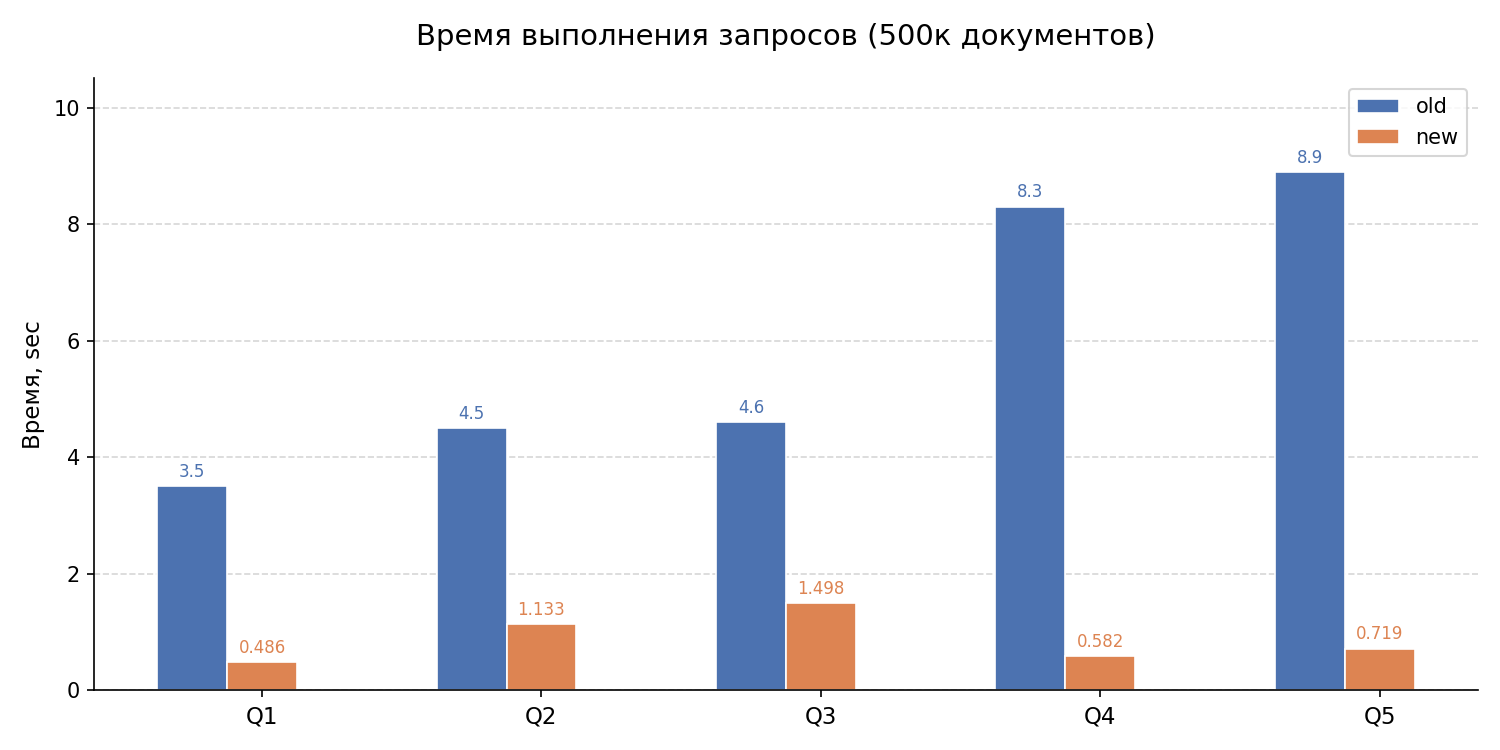
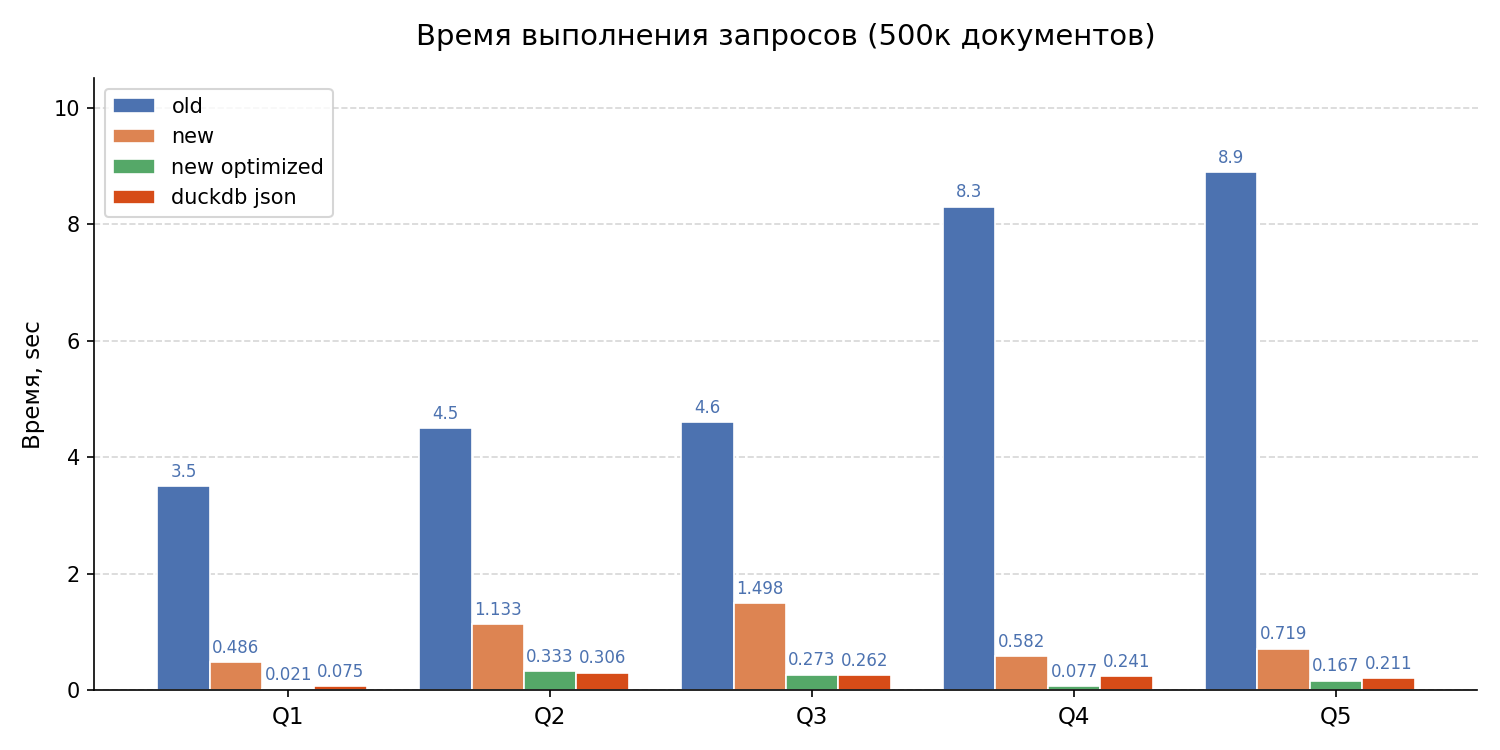
bench compare fix

diff --git a/bench_compare.py b/bench_compare.py
@@ -11,31 +11,37 @@ import numpy as np
 # ── Данные ───────────────────────────────────────────────────────────────────
 labels = ["Q1", "Q2", "Q3", "Q4", "Q5"]
 
-duckdb    = [3.5,  4.5, 4.6, 8.3, 8.9]
-mongodb   = [0.486,  1.133, 1.498,  0.582, 0.719]
-otterbrix = [0.021,  0.333, 0.273,  0.077, 0.167]
+otterbrix_old    = [3.5,  4.5, 4.6, 8.3, 8.9]
+otterbrix_new   = [0.486,  1.133, 1.498,  0.582, 0.719]
+otterbrix_new_optimized = [0.021,  0.333, 0.273,  0.077, 0.167]
+duckdb = [0.075,  0.306, 0.262,  0.241, 0.211]
 
 unit  = "sec"
 title = "Время выполнения запросов (500к документов)"
 # ─────────────────────────────────────────────────────────────────────────────
 
 x     = np.arange(len(labels))
-width = 0.25
+width = 0.2
 
 fig, ax = plt.subplots(figsize=(10, 5))
 
-bars_duckdb    = ax.bar(x - width, duckdb,    width, label="old",
+bars_otterbrix_old    = ax.bar(x - width * 2, otterbrix_old,    width, label="old",
                         color="#4C72B0", edgecolor="white", linewidth=0.8)
-bars_mongodb   = ax.bar(x,         mongodb,   width, label="new",
+bars_otterbrix_new   = ax.bar(x - width,         otterbrix_new,   width, label="new",
                         color="#DD8452", edgecolor="white", linewidth=0.8)
+bars_otterbrix_new_optimized   = ax.bar(x,         otterbrix_new_optimized,   width, label="new optimized",
+                              color="#55A868", edgecolor="white", linewidth=0.8)
+bars_duckdb   = ax.bar(x + width,         duckdb,   width, label="duckdb json",
+                              color="#D64C18", edgecolor="white", linewidth=0.8)
 
-all_vals = duckdb + mongodb + otterbrix
-y_max = max(all_vals)
+y_max = max(otterbrix_old)
 
 # Значения над столбцами
 for bars, vals, color in [
+    (bars_otterbrix_old,    otterbrix_old,    "#4C72B0"),
+    (bars_otterbrix_new,    otterbrix_new,    "#4C72B0"),
+    (bars_otterbrix_new_optimized,    otterbrix_new_optimized,    "#4C72B0"),
     (bars_duckdb,    duckdb,    "#4C72B0"),
-    (bars_mongodb,   mongodb,   "#DD8452"),
 ]:
     for bar, val in zip(bars, vals):
         ax.text(bar.get_x() + bar.get_width() / 2,
